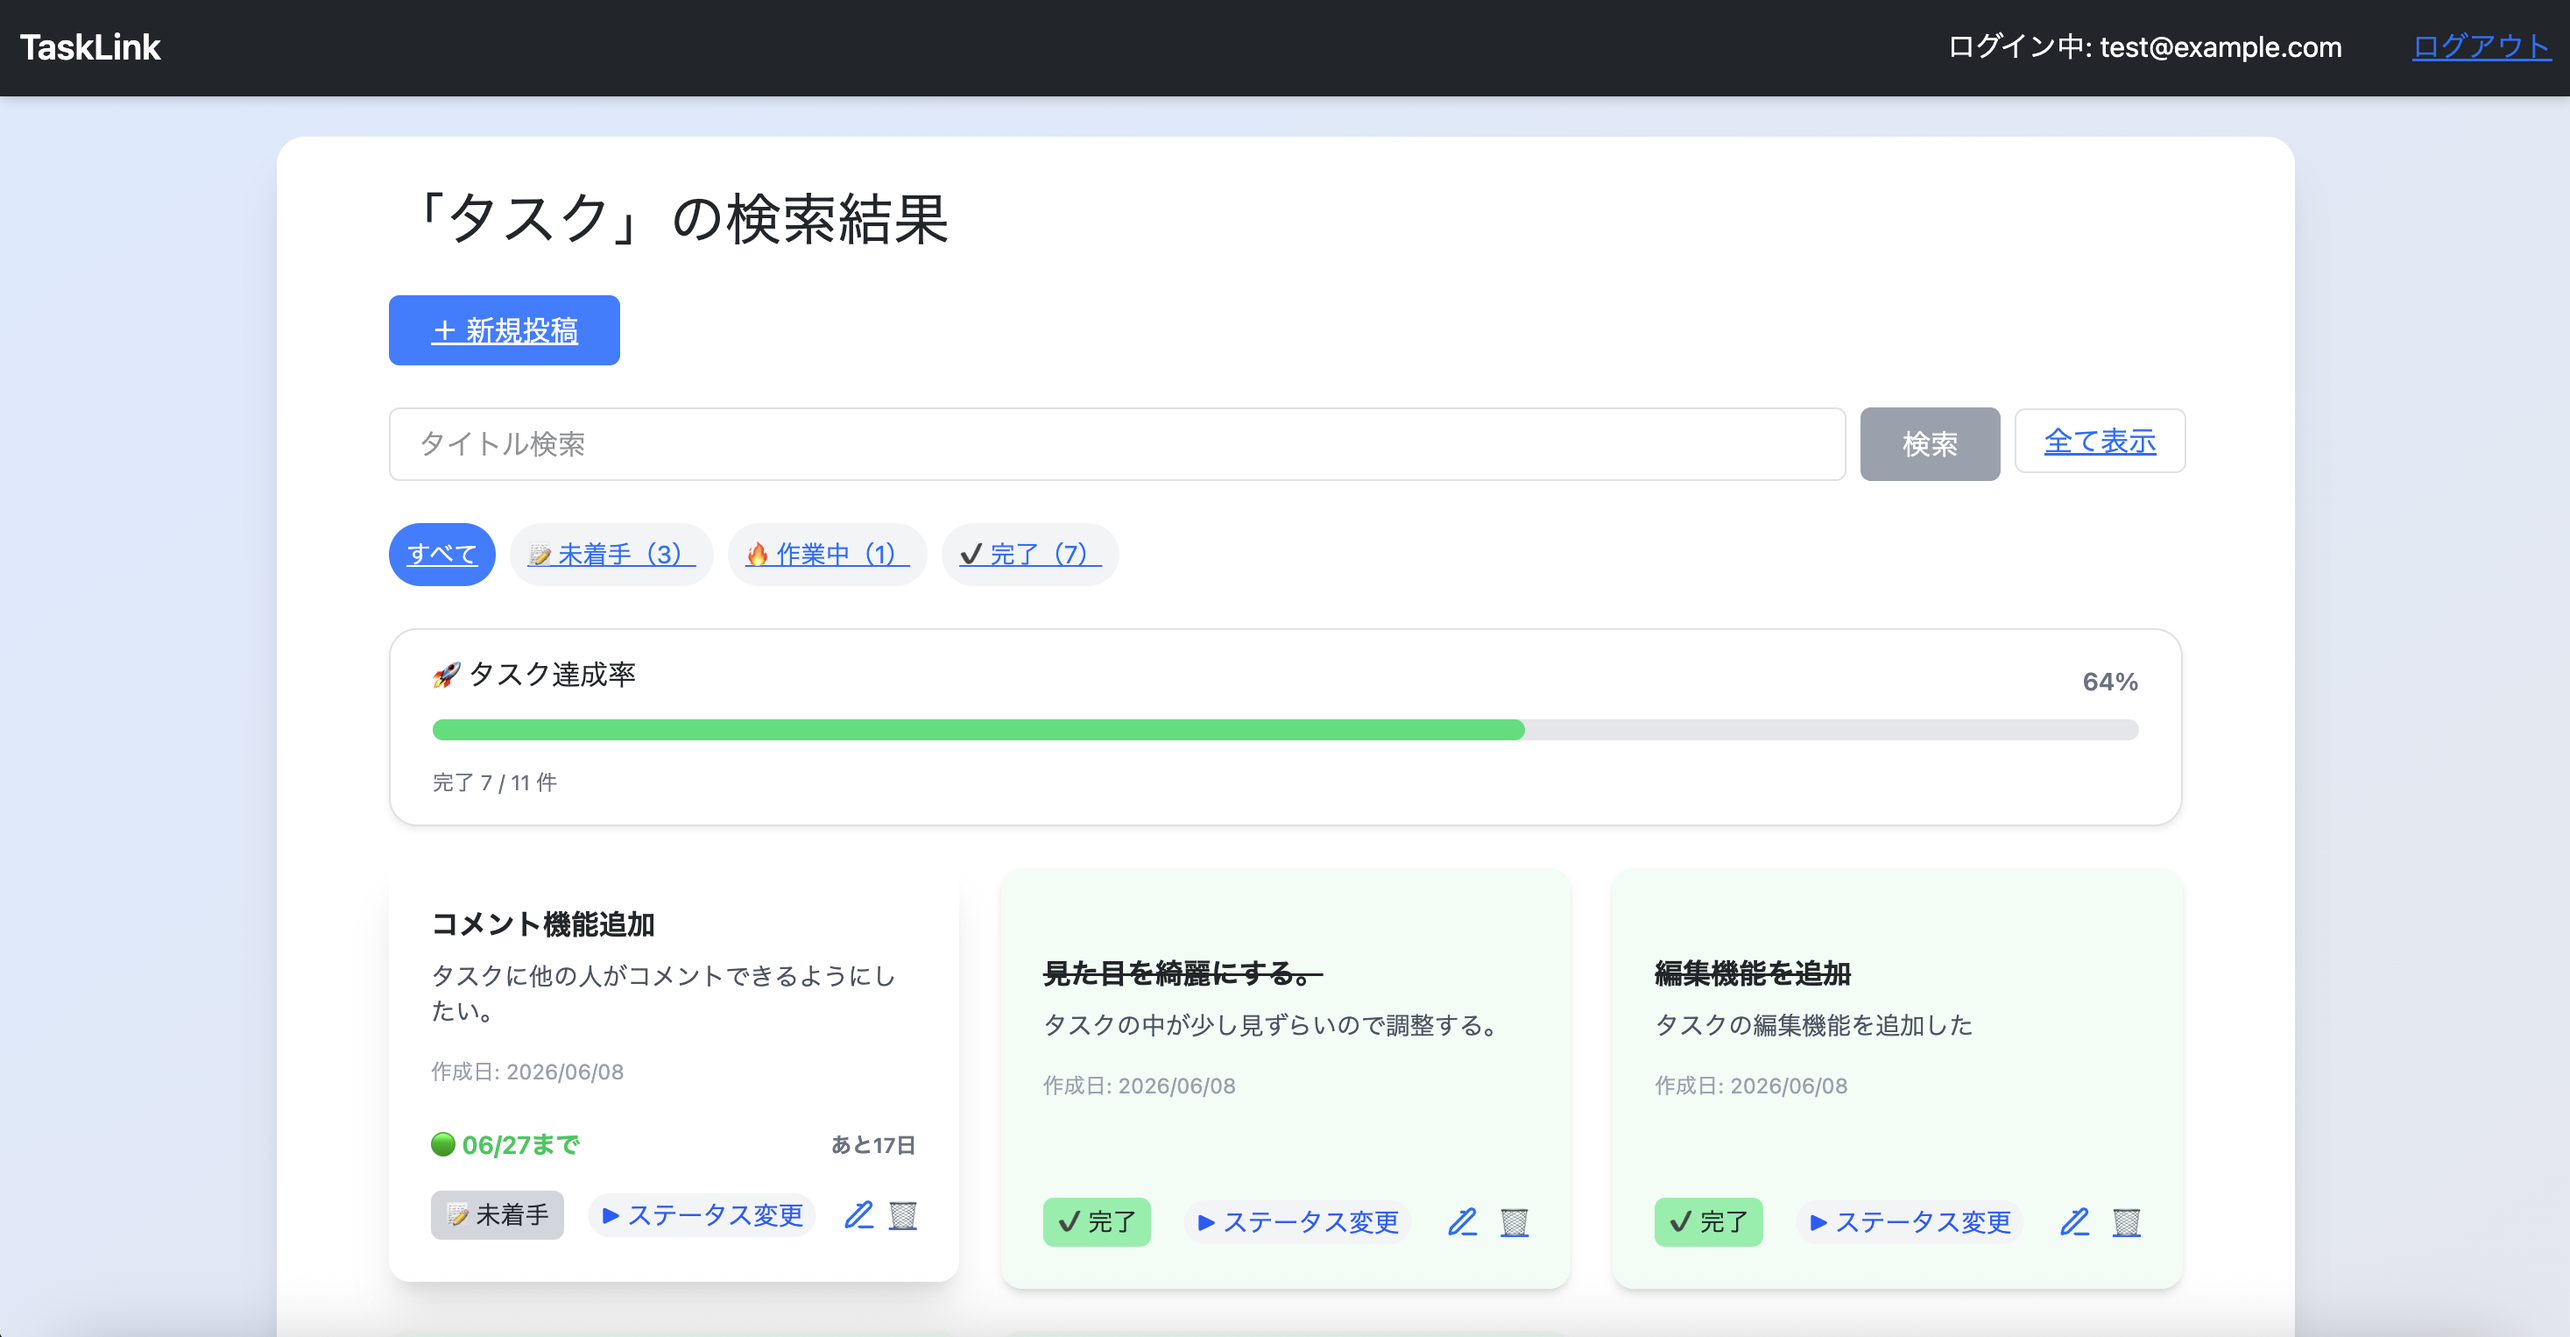
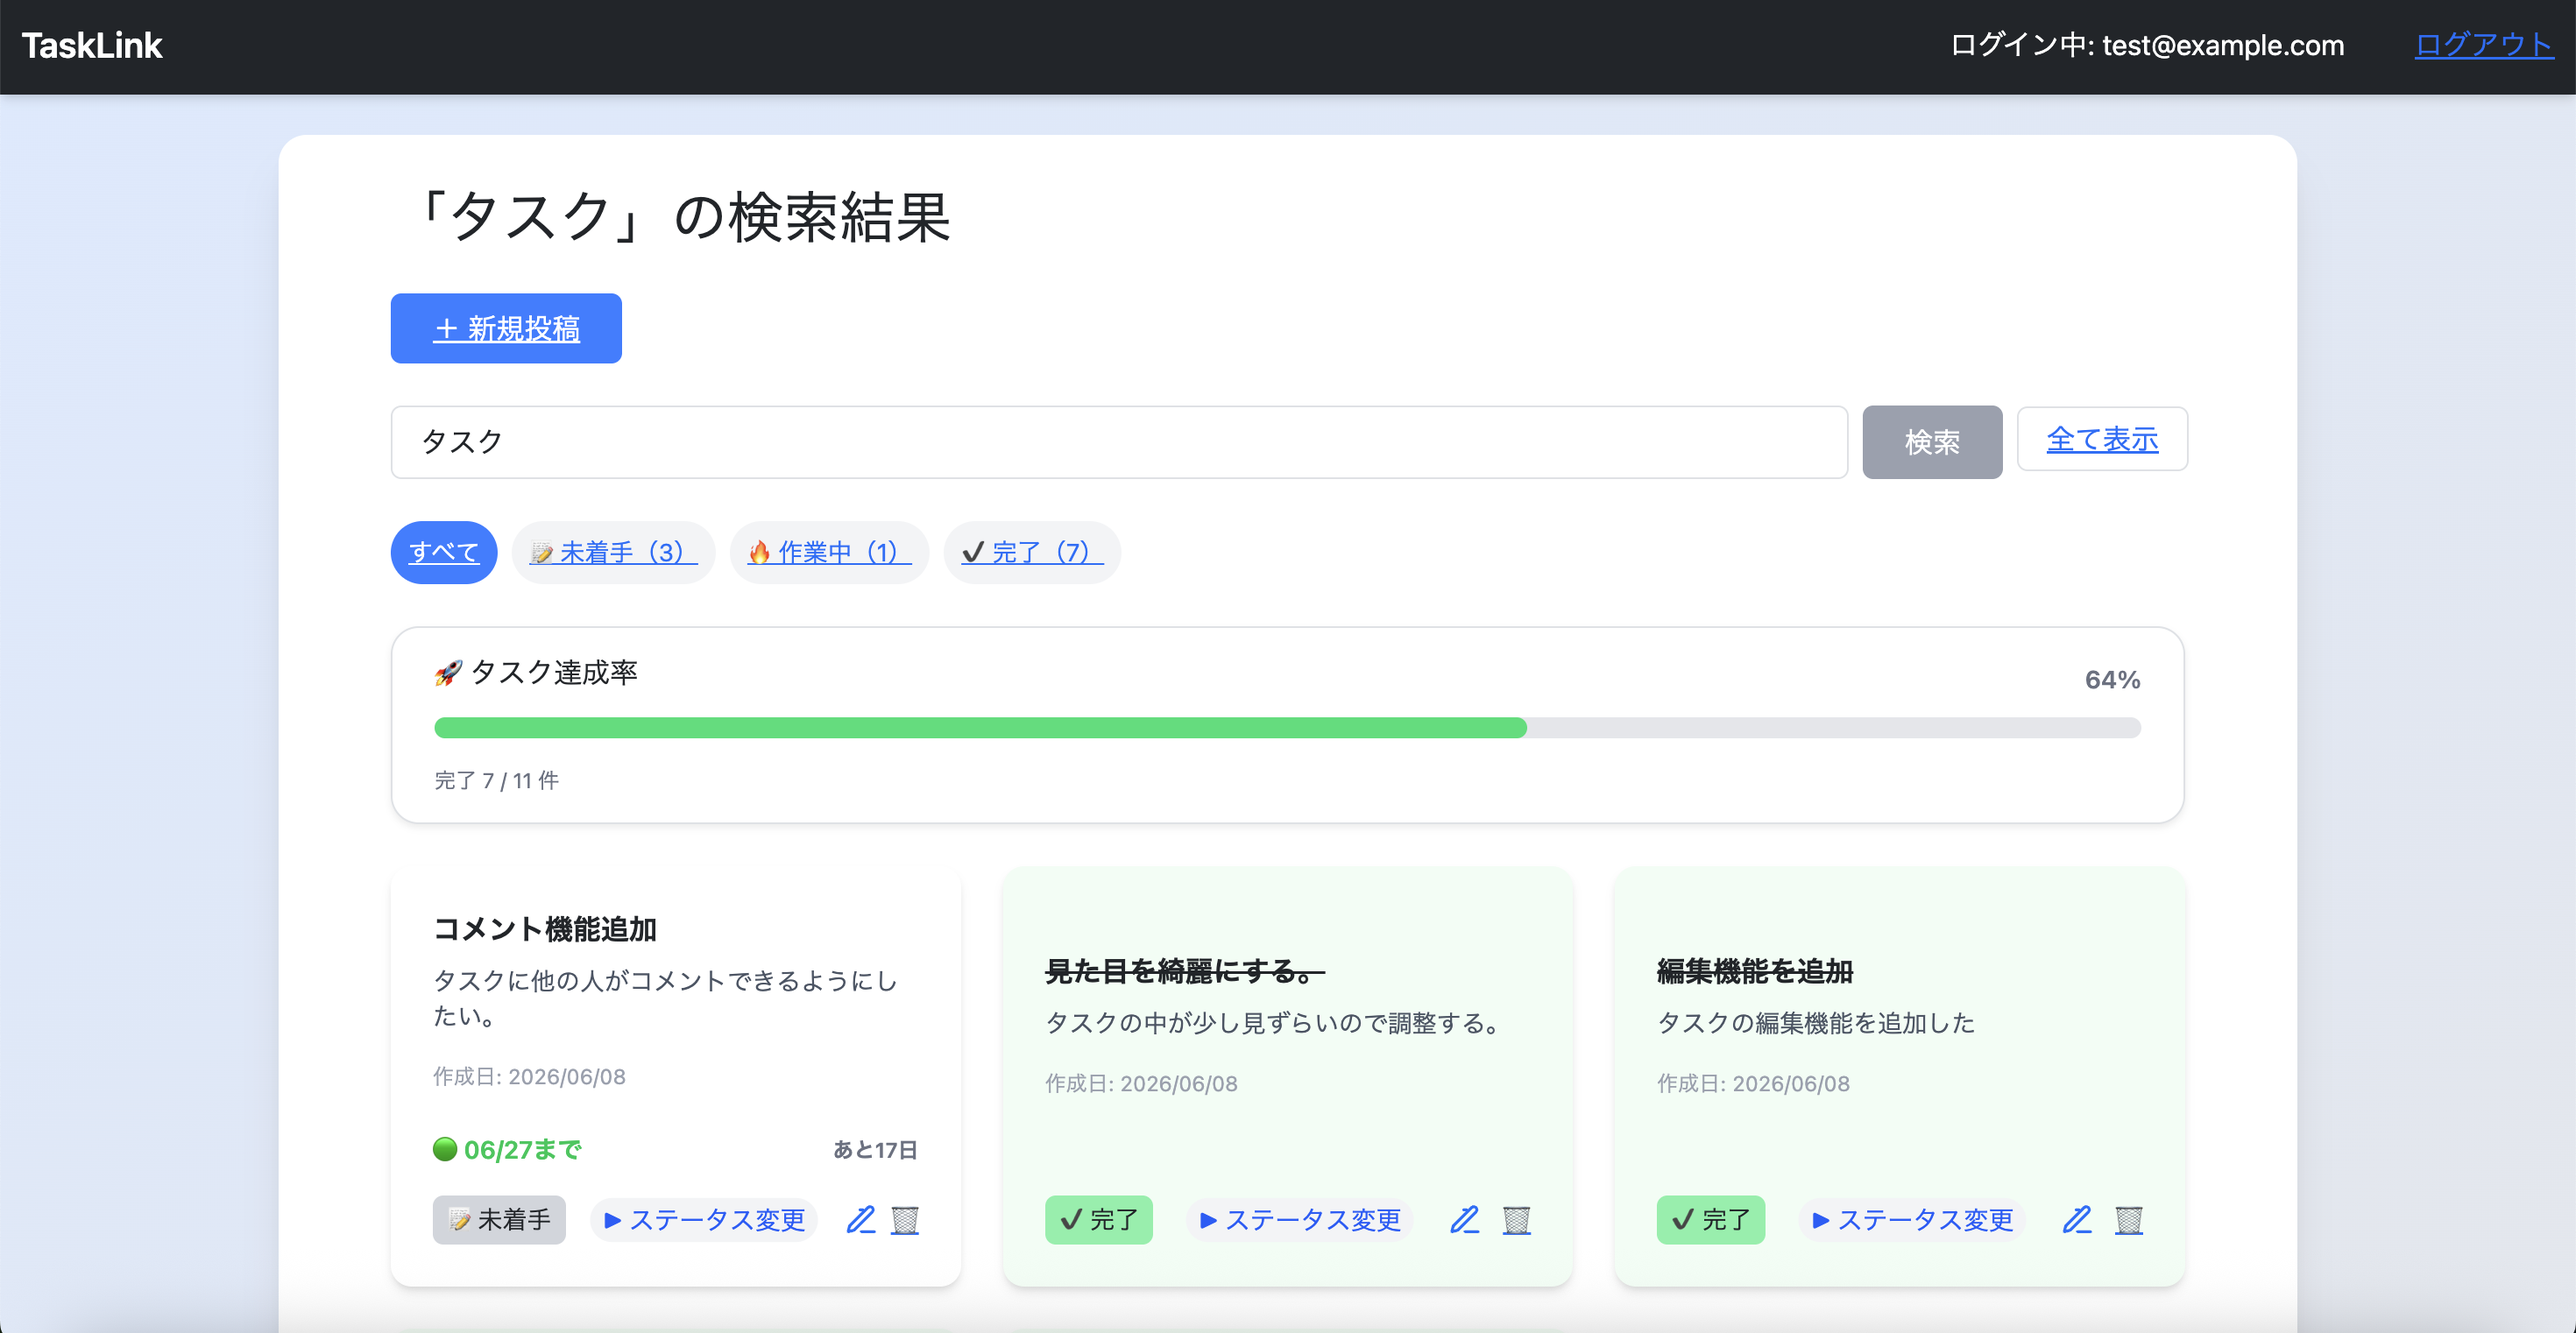
スクショ更新

diff --git a/app/controllers/tasks_controller.rb b/app/controllers/tasks_controller.rb
@@ -71,7 +71,7 @@ class TasksController < ApplicationController
       @task.team = current_user.team
 
       if @task.save
-        tasks = current_user.tasks
+        tasks = current_user.team.tasks
 
         tasks.where.not(id: @task.id)
              .update_all("position = position + 1")
@@ -81,6 +81,11 @@ class TasksController < ApplicationController
         @tasks = tasks
                .order(created_at: :desc)
                .page(1).per(6)
+
+        Rails.logger.debug "===== CREATE DEBUG ====="
+        Rails.logger.debug "TASK_IDS=#{@tasks.map(&:id)}"
+        Rails.logger.debug "NEW_TASK_ID=#{@task.id}"
+        Rails.logger.debug "========================"
 
         flash[:notice] = "作成しました"
 

diff --git a/app/models/user.rb b/app/models/user.rb
@@ -8,4 +8,16 @@ class User < ApplicationRecord
   belongs_to :team, optional: true
 
   has_many :tasks, dependent: :destroy
+
+  after_create :create_default_team
+
+  private
+
+  def create_default_team
+    team = Team.create!(
+      name: "#{email.split('@').first}のチーム"
+    )
+
+    update_column(:team_id, team.id)
+  end
 end
